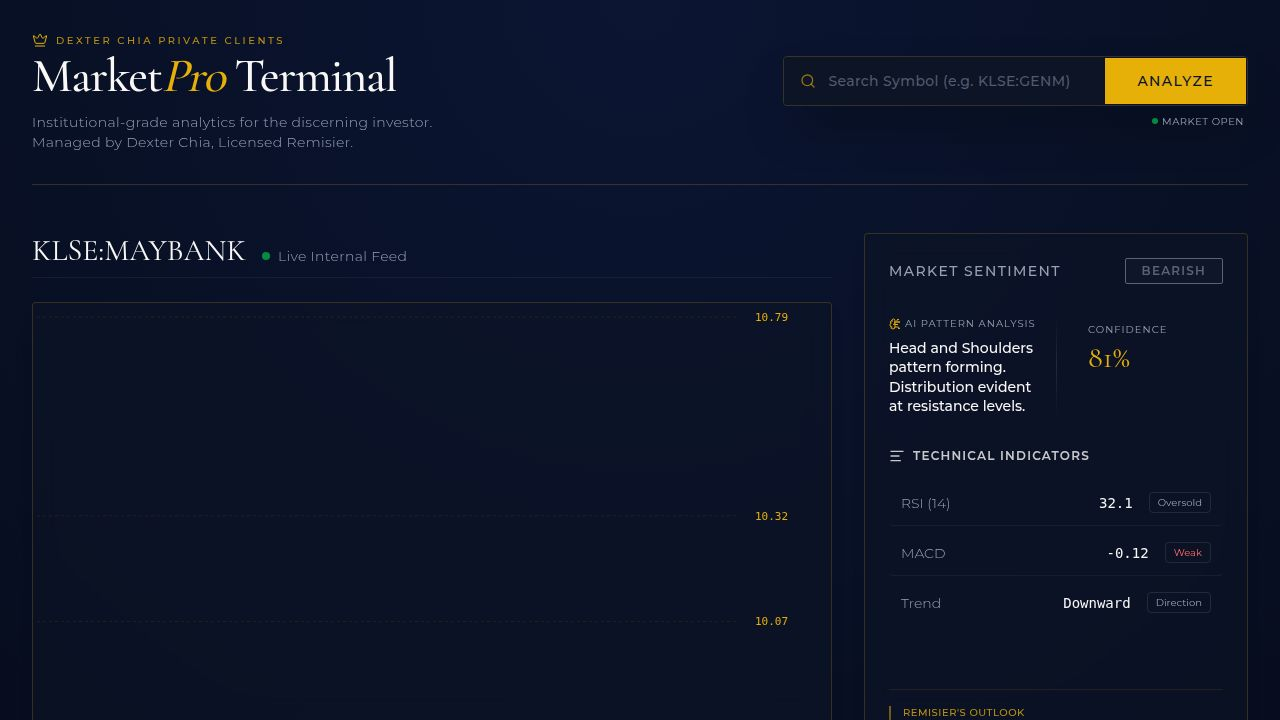
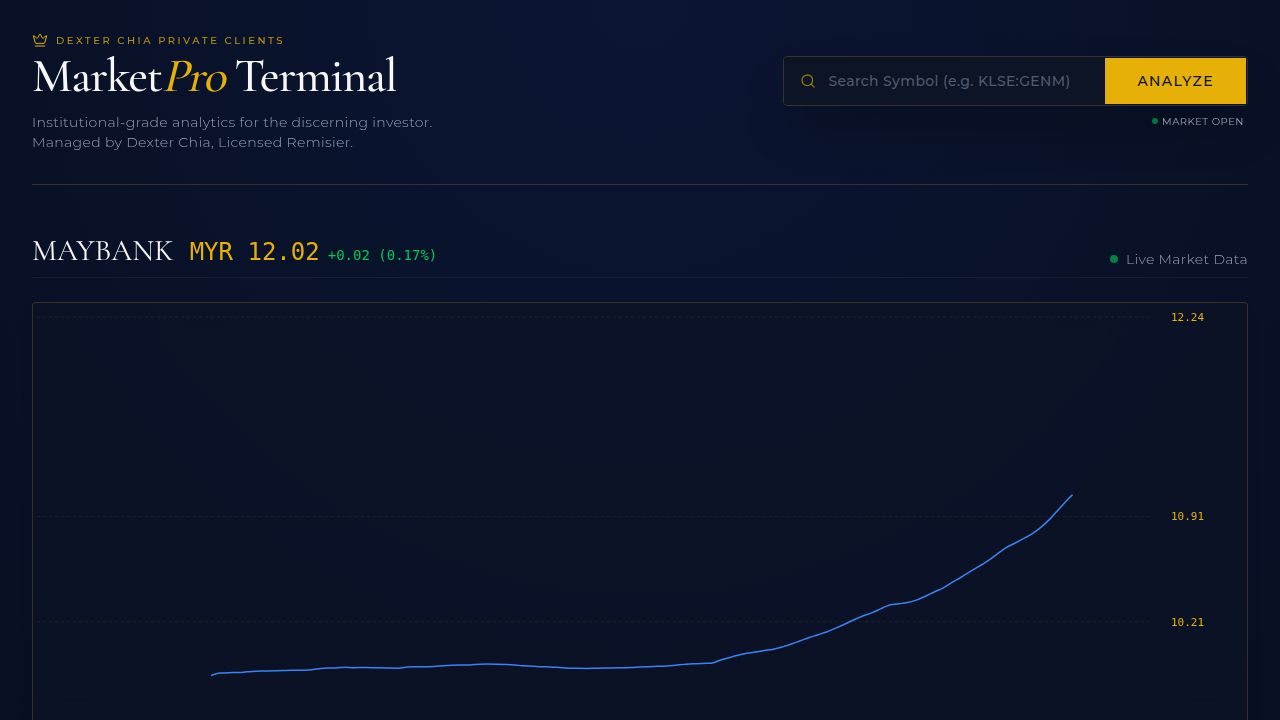
Rearrange dashboard layout to place AI analysis under the main chart
Updated the Dashboard component to move the `AnalysisPanel` component from the right sidebar to directly below the chart, and adjusted the `CompanyInsights` and `PromotionalMessage` components accordingly within `Dashboard.tsx`.

Replit-Commit-Author: Agent
Replit-Commit-Session-Id: 29926df6-99fb-4b19-a4b0-01293b45f98c
Replit-Commit-Checkpoint-Type: full_checkpoint
Replit-Commit-Event-Id: 5604d256-40e0-4580-9369-437576a38118
Replit-Commit-Screenshot-Url: https://storage.googleapis.com/screenshot-production-us-central1/a6e7eec2-147f-4fcc-9b91-33fc20bd2ca0/29926df6-99fb-4b19-a4b0-01293b45f98c/4ofNatF
Replit-Helium-Checkpoint-Created: true

diff --git a/client/src/pages/Dashboard.tsx b/client/src/pages/Dashboard.tsx
@@ -182,9 +182,9 @@ export default function Dashboard() {
           </div>
         </header>
 
-        <div className="grid grid-cols-1 lg:grid-cols-12 gap-8">
+        <div className="space-y-8">
           
-          <div className="lg:col-span-8 space-y-6">
+          <div className="space-y-6">
              <div className="flex justify-between items-end border-b border-white/5 pb-2">
                 <div className="flex items-baseline gap-4">
                   <h2 className="text-3xl font-serif text-foreground" data-testid="text-symbol-name">
@@ -232,26 +232,24 @@ export default function Dashboard() {
                   No data available
                </div>
              )}
-
-             <CompanyInsights
-               symbol={symbol}
-               analysis={analysis}
-               quote={quoteData}
-               isLoading={analysisLoading || quoteLoading}
-             />
           </div>
 
-          <div className="lg:col-span-4 space-y-8">
-             <AnalysisPanel 
-               symbol={symbol}
-               currentPrice={currentPrice}
-               analysis={analysis}
-               isLoading={analysisLoading}
-               currency={currency}
-             />
-             
-             <PromotionalMessage />
-          </div>
+          <AnalysisPanel 
+            symbol={symbol}
+            currentPrice={currentPrice}
+            analysis={analysis}
+            isLoading={analysisLoading}
+            currency={currency}
+          />
+
+          <CompanyInsights
+            symbol={symbol}
+            analysis={analysis}
+            quote={quoteData}
+            isLoading={analysisLoading || quoteLoading}
+          />
+
+          <PromotionalMessage />
         </div>
       </div>
     </div>
